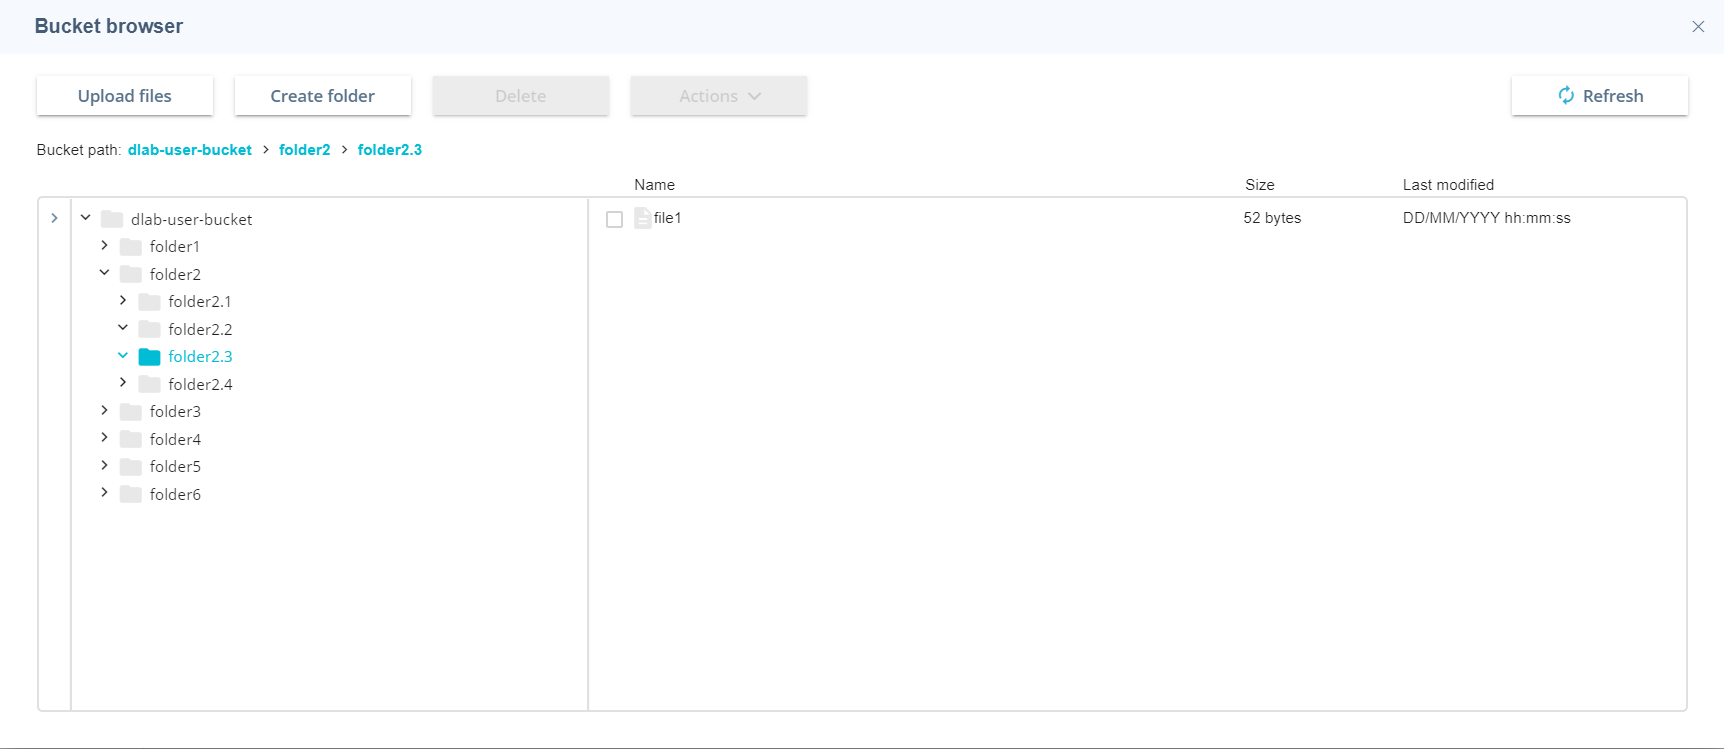
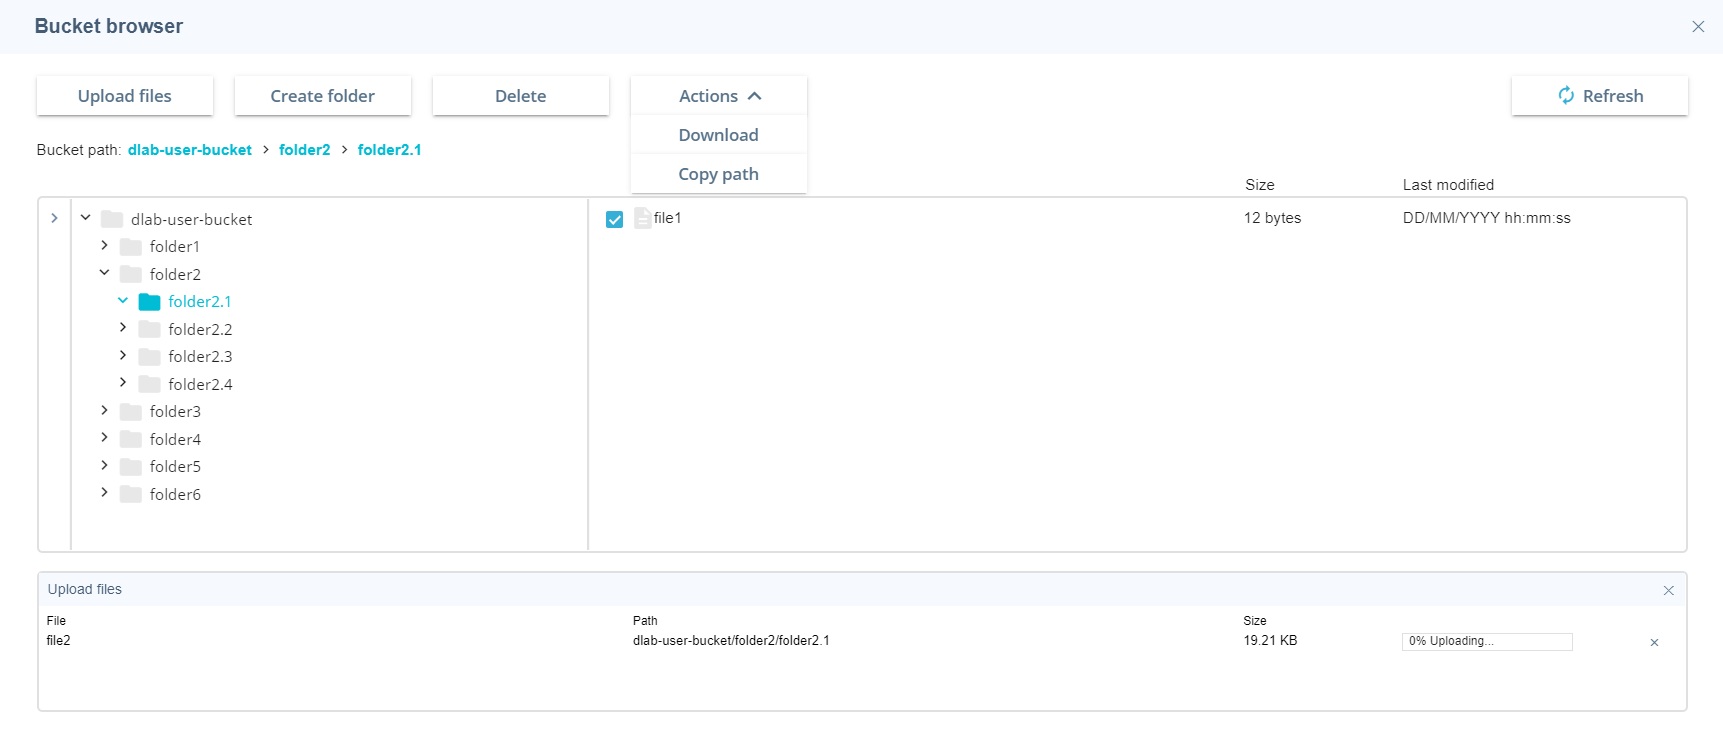
Changed user guide

diff --git a/USER_GUIDE.md b/USER_GUIDE.md
@@ -38,6 +38,8 @@ DLab is an essential toolset for analytics. It is a self-service Web Console, us
 
 &nbsp; &nbsp; &nbsp; &nbsp; &nbsp; &nbsp; &nbsp; &nbsp; [Git UI tool (ungit)](#git_ui)
 
+&nbsp; &nbsp; &nbsp; &nbsp; &nbsp; &nbsp; &nbsp; &nbsp; [Bucket browser](#bucket)
+
 [Administration](#administration)
 
 &nbsp; &nbsp; &nbsp; &nbsp; &nbsp; [Manage roles](#manage_roles)
@@ -51,6 +53,8 @@ DLab is an essential toolset for analytics. It is a self-service Web Console, us
 &nbsp; &nbsp; &nbsp; &nbsp; &nbsp; &nbsp; &nbsp; &nbsp; [Manage DLab quotas](#manage_dlab_quotas)
 
 [DLab billing report](#billing_page)
+
+[DLab audit report](#audit_page)
 
 [Web UI filters](#filter)
 
@@ -258,6 +262,10 @@ To stop the Notebook click on a gear icon <img src="doc/gear_icon.png" alt="gear
 Hit "OK" in confirmation popup.
 
 **NOTE:** Connected Data Engine Service becomes Terminated while connected (if any) Data Engine (Standalone Apache Spark cluster) becomes Stopped.
+
+<p align="center"> 
+    <img src="doc/notebook_terminate_confirm.png" alt="Notebook terminate confirm" width="400">
+</p>
 
 <p align="center"> 
     <img src="doc/notebook_stop_confirm.png" alt="Notebook stop confirm" width="400">
@@ -511,6 +519,18 @@ After commit you see your local version and remote repository. To push you chang
 
 Also clicking on "Circle" button you can uncommit or revert changes.
 
+### Bucket browser <a name="bucket"></a>
+
+
+
+![Git_ui_ungit_changes](doc/bucket_button.png)
+
+When you click on the button "Bucket browser" – following popup shows up:
+
+![Git_ui_ungit_changes](doc/select_bucket.png)
+
+![Git_ui_ungit_changes](doc/bucket_browser.png)
+
 --------------------------------
 # Administration <a name="administration"></a>
 
@@ -628,7 +648,7 @@ After filling fields and clicking on "Apply" button, new quotas are used for pro
 If project and DLab quotas are exceeded the warning shows up during login.
 
 <p align="center" class="facebox-popup"> 
-    <img src="doc/exceeded quota.png" alt="Exceeded quota" width="400">
+    <img src="doc/project_quota.png" alt="Exceeded project quota" width="400">
 </p>
 
 In such case user cannot create new instance and already "Running" instance changes its status to "Stopping", except for Data Engine Service (its status changes "Terminating") and soon becomes "Stopped" or "Terminated" appropriately.
@@ -657,6 +677,17 @@ You can also filter data by environment name, user, project, resource type, inst
 On top of that you can sort data by user, project, service charges.
 
 In the footer of billing report, you can see "Total" cost for all environments.
+
+# DLab Billing report <a name="audit_page"></a>
+
+On this page you can see all billing information, including all costs assosiated with service base name of SSN.
+
+![Audit page](doc/audit_page.png)
+
+<p align="center"> 
+    <img src="doc/audit_info.png" alt="Notebook stop confirm" width="400">
+</p>
+
 
 --------------------------------
 
